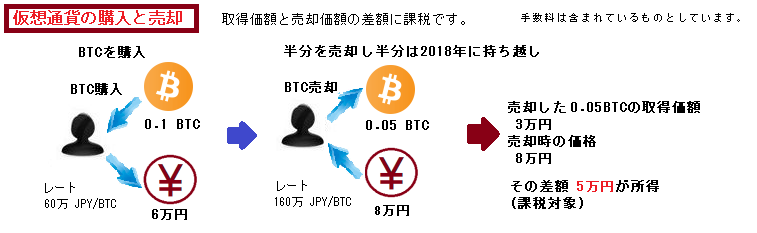
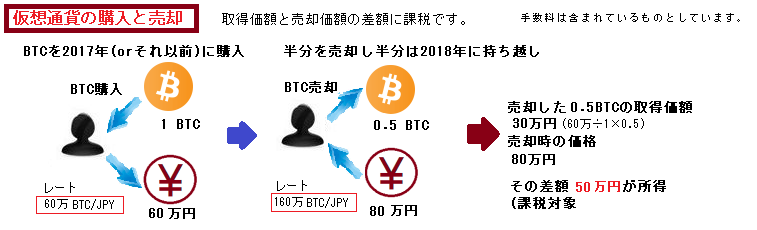
20180109-1

diff --git a/docs/cc_zeikin.html b/docs/cc_zeikin.html
@@ -4,14 +4,15 @@
 <body>
 
 <p>
-仮想通貨の所得の計算例を図にしました。<br>色々と勘違いしている人がいたことと自分の理解のために作成しました。<br>
-<sub>嘘があるかもしれません、その場合はごめんなさい。</sub>
+仮想通貨の所得の計算例を図にしました。<br>勘違いしている人のためと自分の理解のためでもあります。<br>
+<sub>もしかして嘘があるかもしれません、その場合ごめんなさい。</sub>
 </p>
 <div class="line"></div>
 
 <img src="./cc_zeikin1.png" alt="zeikin example 1">
 
-<p>※図の「課税対象」は「支払う税金」ではありません。所得に応じた税率（5％～45％）を掛けて算出します。
+<p>まずは上の図が基本です。<br>
+※図の「課税対象」は「支払う税金」ではありません。所得に応じた税率（5％～45％）を掛けて算出します。
 税率や所得による条件は仮想通貨に限らない部分なので、そのような計算は国税庁の「確定申告書等作成コーナー」で作成すれば自動で計算してくれます。</p>
 
 <img src="./cc_zeikin3.png" alt="zeikin example 3">
